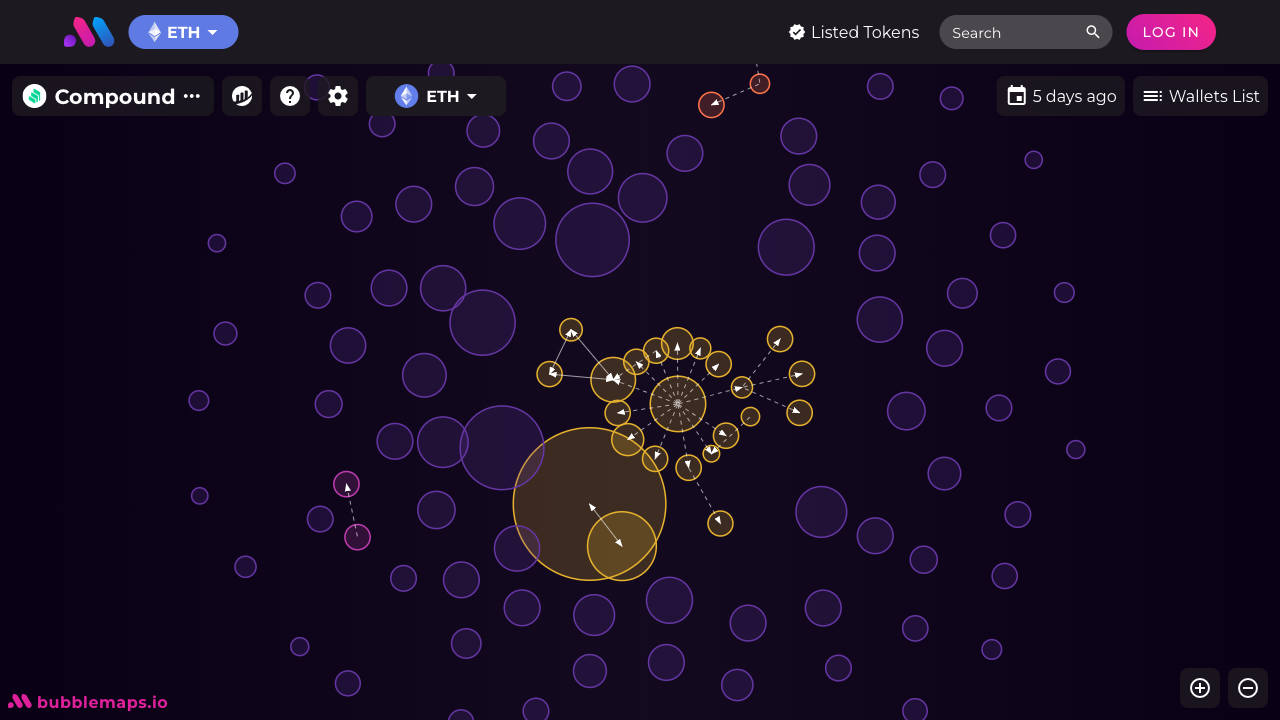
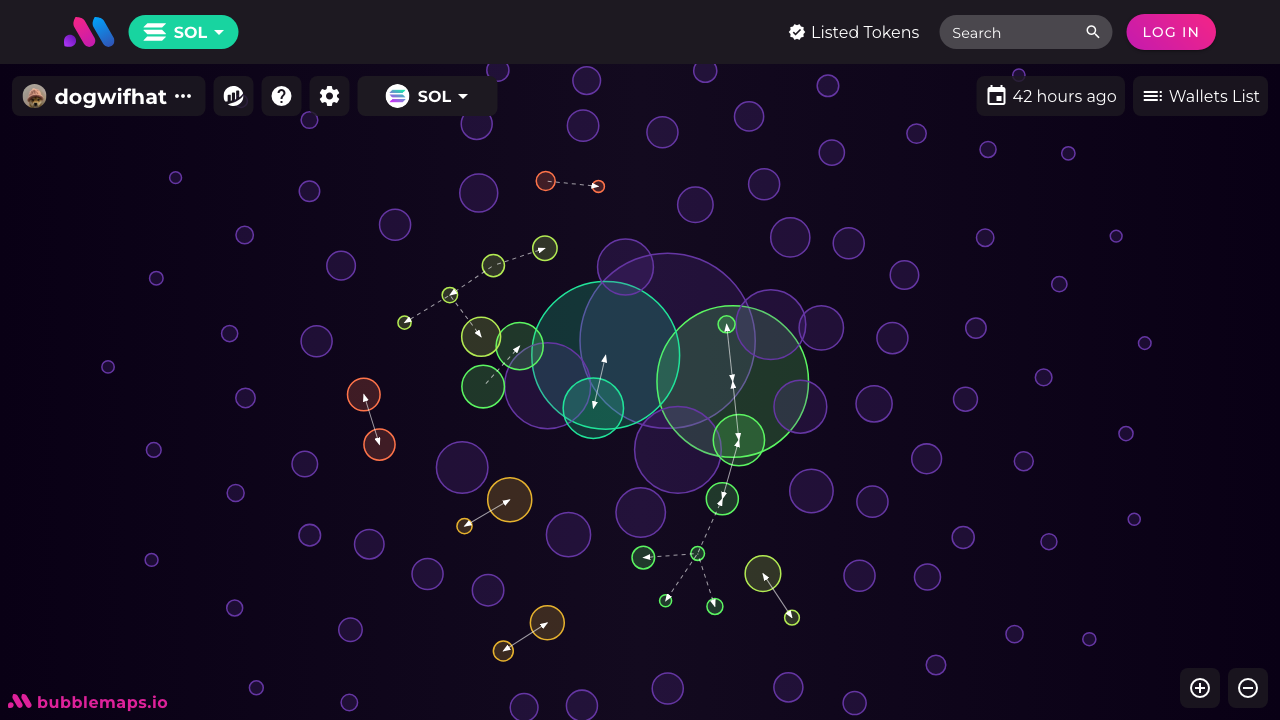
..

diff --git a/README.md b/README.md
@@ -1,1 +1,115 @@
-# bubblemap-tg-bot
+# Bubblemaps Telegram Bot 🤖
+
+A Telegram bot that provides detailed token analytics, decentralization scores, and interactive Bubblemaps visualizations across multiple blockchains.
+
+![Bubblemap Example](bubblemap.png)
+
+## Features ✨
+
+- **Multi-Chain Support**: Ethereum, BSC, Fantom, Avalanche, Cronos, Arbitrum, Polygon, Base, Solana, Sonic
+- **Token Analytics**: Market cap, price, volume, supply distribution
+- **Decentralization Score**: AI-powered score (1-100) with detailed breakdown
+- **Holder Analysis**: Top 10 holders with contract/CEX identification
+- **Interactive Visualization**: Direct links to Bubblemaps + blockchain explorers
+- **CoinGecko Integration**: Real-time market data
+
+## Installation 💻
+
+### Prerequisites
+
+- Node.js v18+
+- npm v9+
+- Google Chrome (for Puppeteer)
+- Telegram Bot Token ([Get from @BotFather](https://t.me/BotFather))
+
+### Steps
+
+1. Clone repository:
+
+```bash
+git clone https://github.com/patrick-ehimen/bubblemap-tg-bot.git
+cd bubblemap-tg-bot
+```
+
+2. Install dependencies:
+
+```bash
+npm install
+```
+
+3. Create .env file:
+
+```dotnetcli
+TELEGRAM_BOT_TOKEN=your_bot_token
+COINGECKO_API_KEY=your_coingecko_key
+```
+
+## Usage 📲
+
+### Basic Commands
+
+- `/start` - Initial bot setup
+- `/help` - Usage instructions
+
+### Workflow
+
+1. Send contract address to the bot:
+
+`0x603c7f932ed1fc6575303d8fb018fdcbb0f39a95`dotnetcli
+
+2. Select blockchain network
+
+3. Receive analysis:
+
+- Bubblemap visualization
+
+- Decentralization score
+
+- Market data from CoinGecko
+
+- Supply distribution breakdown
+
+- Explorer links
+
+## Architecture 🏗
+
+### Key Dependencies
+
+| Package   | Purpose                                    |
+| --------- | ------------------------------------------ |
+| telegraf  | Telegram bot framework                     |
+| puppeteer | Headless browser for Bubblemap screenshots |
+| axios     | HTTP client for API interactions           |
+| numeral   | Number formatting                          |
+
+### Data Flow
+
+1. User sends contract address
+
+2. Address validation with regex patterns
+
+3. Chain selection via inline keyboard
+
+4. Data aggregation:
+
+- Bubblemaps API → Token distribution
+
+- CoinGecko → Market data
+
+5. Decentralization score calculation
+
+6. Puppeteer generates visualization
+
+7. Formatted response sent via Telegram
+
+### Deployment 🚀
+
+Render.com Setup
+
+1. Create new Web Service
+
+2. Use render.yaml configuration
+
+3. Set environment variables
+
+4. Enable auto-deploy
